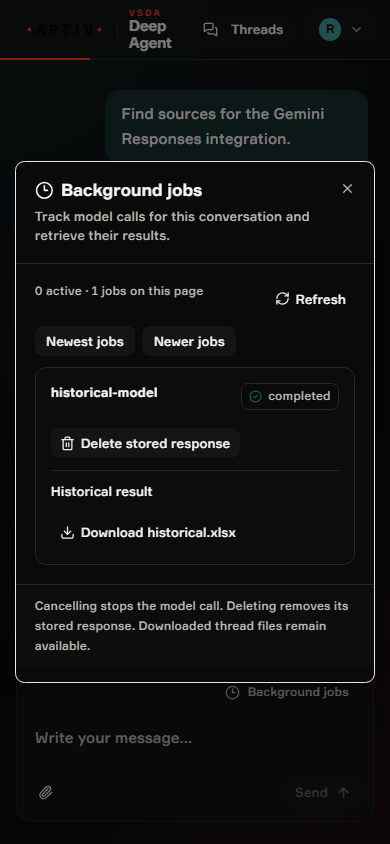
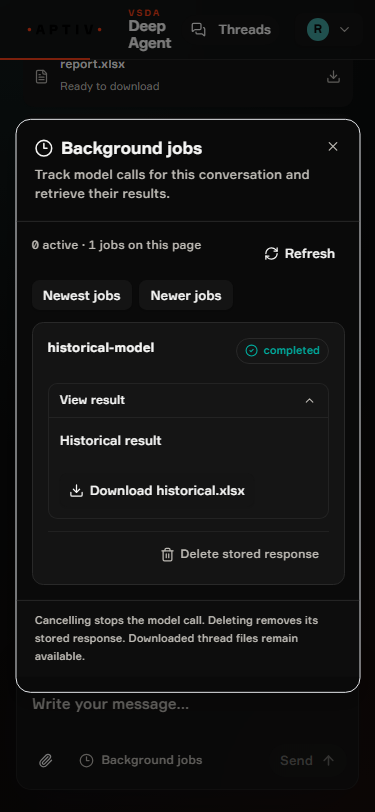
docs: record Responses UI browser verification

diff --git a/docs/evidence/responses/README.md b/docs/evidence/responses/README.md
@@ -1,0 +1,33 @@
+# Context and Responses UI refinement
+
+The chat details now prioritize incomplete-response guidance, group generated
+files with explicit availability, and preview four sources inside a collapsed
+disclosure with a keyboard accessible expansion control. Context compaction keeps a short, optional
+explanation. Background jobs use status badges and expandable results, with a
+fixed dialog heading and footer around the scrolling history.
+
+The screenshots in this directory use mocked conversations and provider jobs;
+they do not represent live provider execution.
+
+## Verification
+
+- `yarn test`: 282 passed; 20 opt-in browser cases skipped.
+- `yarn build`: production compilation, TypeScript and static export.
+- Focused ESLint and Prettier checks on the changed components.
+- `RESPONSES_BROWSER_TEST=1 node --import tsx/esm --test tests/responses-browser.test.mjs`:
+  source disclosure and expansion by keyboard, long source-title wrapping, unavailable files,
+  context disclosure, job loading/action failures and recovery, cancellation,
+  deletion, binary downloads, pagination, Escape focus return, phone layout,
+  landscape dialog bounds and dark/reduced-motion rendering.
+
+Set `RESPONSES_PLAYWRIGHT_MODULE` to an installed Playwright module URL when
+Playwright is supplied by the workspace runtime instead of this repository.
+
+## Screenshots
+
+- [Chat, desktop](chat-desktop.png)
+- [Chat, 375 px](chat-mobile.png)
+- [Background jobs, desktop](background-jobs-desktop.png)
+- [Background jobs, 375 px](background-jobs-mobile.png)
+- [Background jobs, dark theme](background-jobs-mobile-dark.png)
+- [Historical jobs](background-jobs-history-mobile.png)
